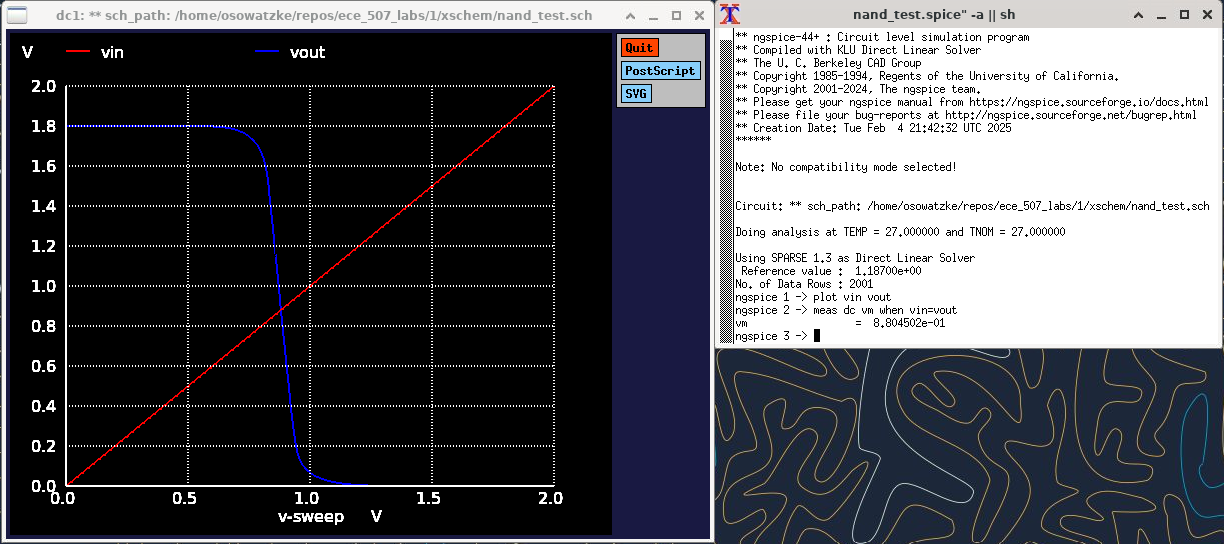
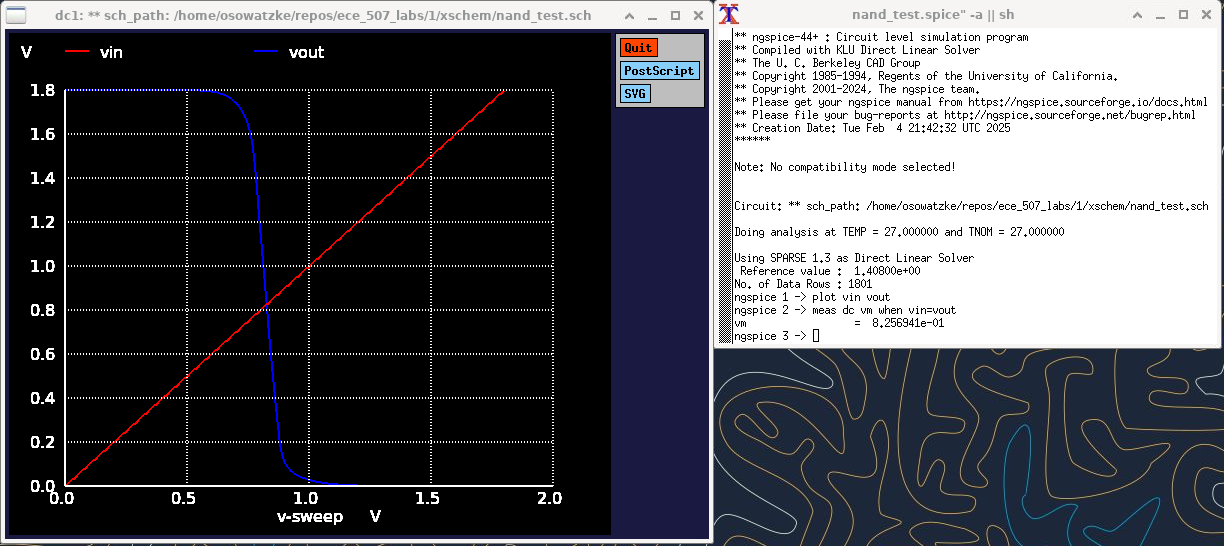
Adding table with vtc results

diff --git a/1/lab_report.tex b/1/lab_report.tex
@@ -217,25 +217,41 @@
 	\end{center}
 	\end{table}
 	
-	we analyze the VTC when varying \texttt{a} and \texttt{b} independently and when varying \texttt{a} and \texttt{b} together. The test circuit we use when just varying the input \texttt{a} is included in Figure \ref{fig::nand_vtc_test_sweep_va}.
-	
-	
+	\noindent The test circuit we use to generate the VTC for the first entry in the above table is shown in Figure \ref{fig::nand_vtc_test_sweep_va}.
 	
 	\begin{figure}[H]
 		\centerline{\includegraphics[width=0.8\textwidth]{nand_vtc_test_sweep_va.png}}
-		\caption{NAND VTC Test Circuit for Independent Variations of Input \texttt{a}}
+		\caption{NAND VTC Test Circuit for Variations of \texttt{a} with \texttt{b=1}}
 		\label{fig::nand_vtc_test_sweep_va}
-	\end{figure}
+	\end{figure}	
 	
-	Using this test circuit, we perform DC analysis to determine the VTC and find \texttt{Va}, which is the voltage at which \texttt{Vin = Vout}. The results of this analysis are shown in Figure \ref{fig::nand_vtc_sweep_va}.
+	\noindent Using this test circuit, we perform DC analysis to generate the VTC and find \texttt{Vm}, which is the voltage at which \texttt{Vin = Vout}. The results of this analysis are shown in Figure \ref{fig::nand_vtc_sweep_va}.
 	
 	\begin{figure}[H]
 		\centerline{\includegraphics[width=0.8\textwidth]{nand_vtc_sweep_va.png}}
-		\caption{NAND VTC Results for Independent Variations of Input \texttt{a}}
+		\caption{NAND VTC Results for Variations of \texttt{a} with \texttt{b=1}}
 		\label{fig::nand_vtc_sweep_va}
 	\end{figure}
 	
-	Examining the results, we find that \texttt{Vm = 0.8805V}. We perform similar analysis for independent variations of the input \texttt{b}. The test circuit and results are attached in figures \ref{fig::nand_vtc_test_sweep_vb} and \ref{fig::nand_vtc_sweep_vb} independently.
+	Examining the results, we find that \texttt{Vm = 0.8257V}. With slight modifications to our test circuit, we perform similar analysis to find \texttt{Vm} for the other sets inputs listed in Table \ref{table::nand_gate_high_to_low_transitions}. These results are included in Table \ref{table::nand_gate_vm}.
+	
+	\begin{table}[H]
+	\begin{center}
+	\caption{\texttt{Vm} for Each Set of Inputs That Result in an Output Logic Level Change}
+	\label{table::nand_gate_vm}
+	\begin{tabular}{| c | c | c |}
+		\hline
+		\texttt{a} & \texttt{b} & \texttt{Vm}\\
+		\hline	
+		$0 \rightarrow 1$ & $1$ & $0.8257 \text{V}$\\
+		\hline	
+		$1$ & $0 \rightarrow 1$ & $0.8195 \text{V}$\\
+		\hline	
+		$0 \rightarrow 1$ & $0 \rightarrow 1$ & $0.9108 \text{V}$\\
+		\hline
+	\end{tabular}
+	\end{center}
+	\end{table}
 	
 	\begin{figure}[H]
 		\centerline{\includegraphics[width=0.8\textwidth]{nand_vtc_test_sweep_vb.png}}
